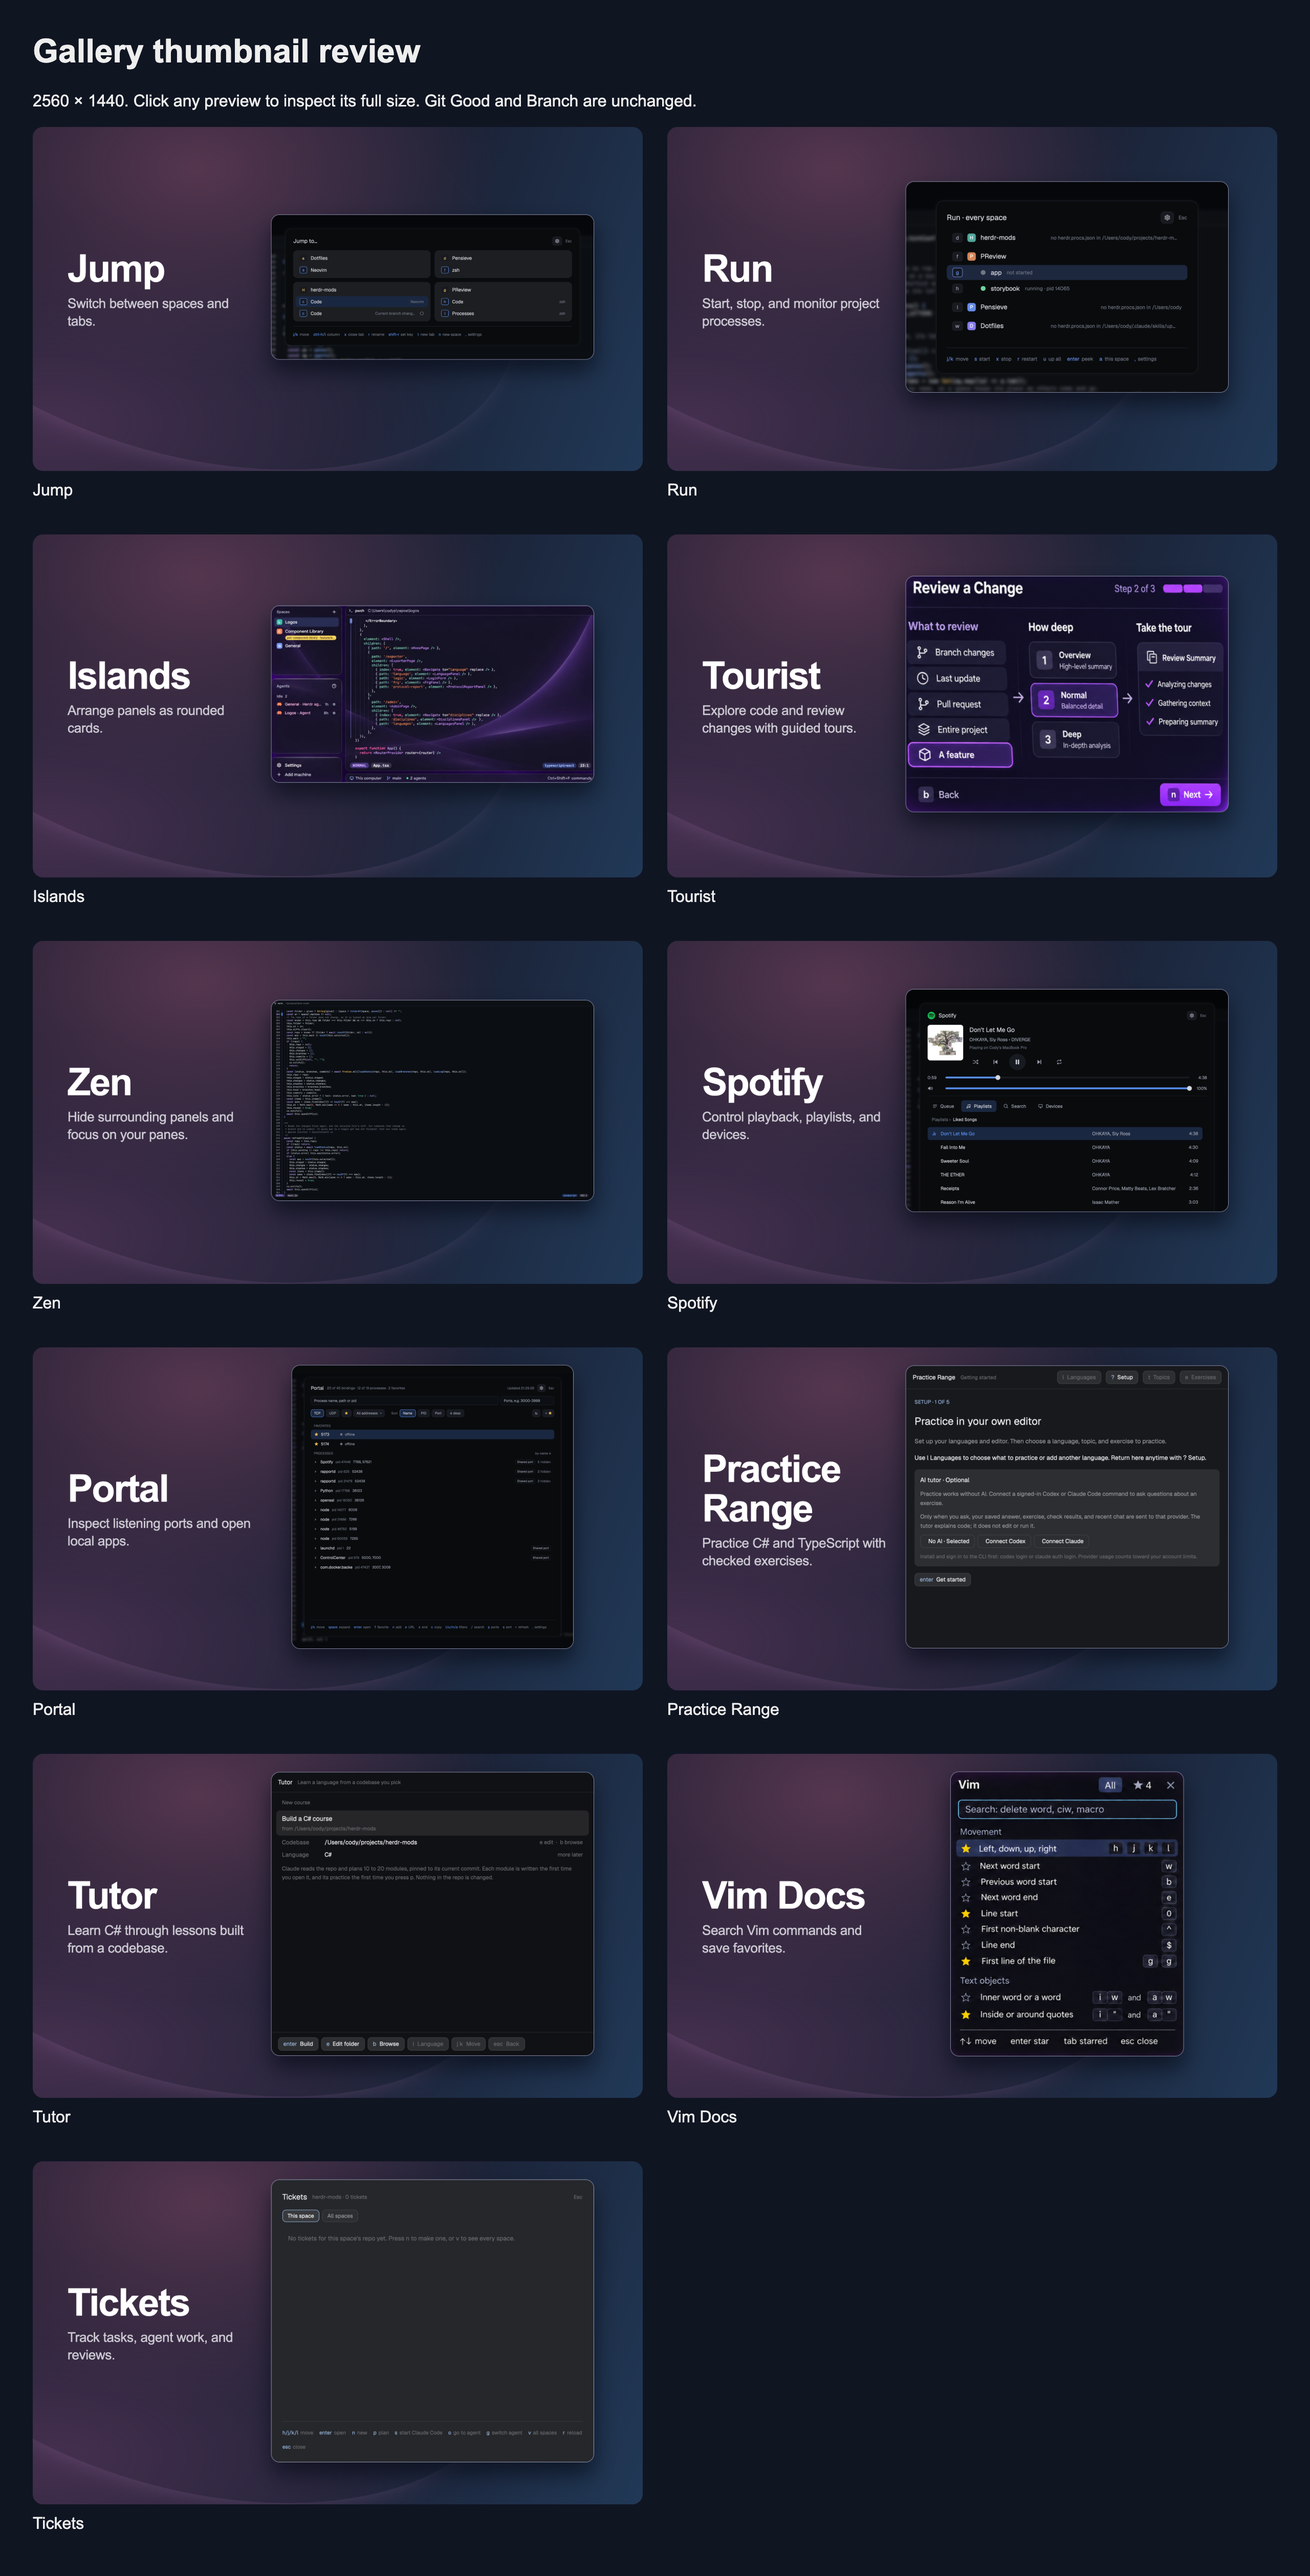
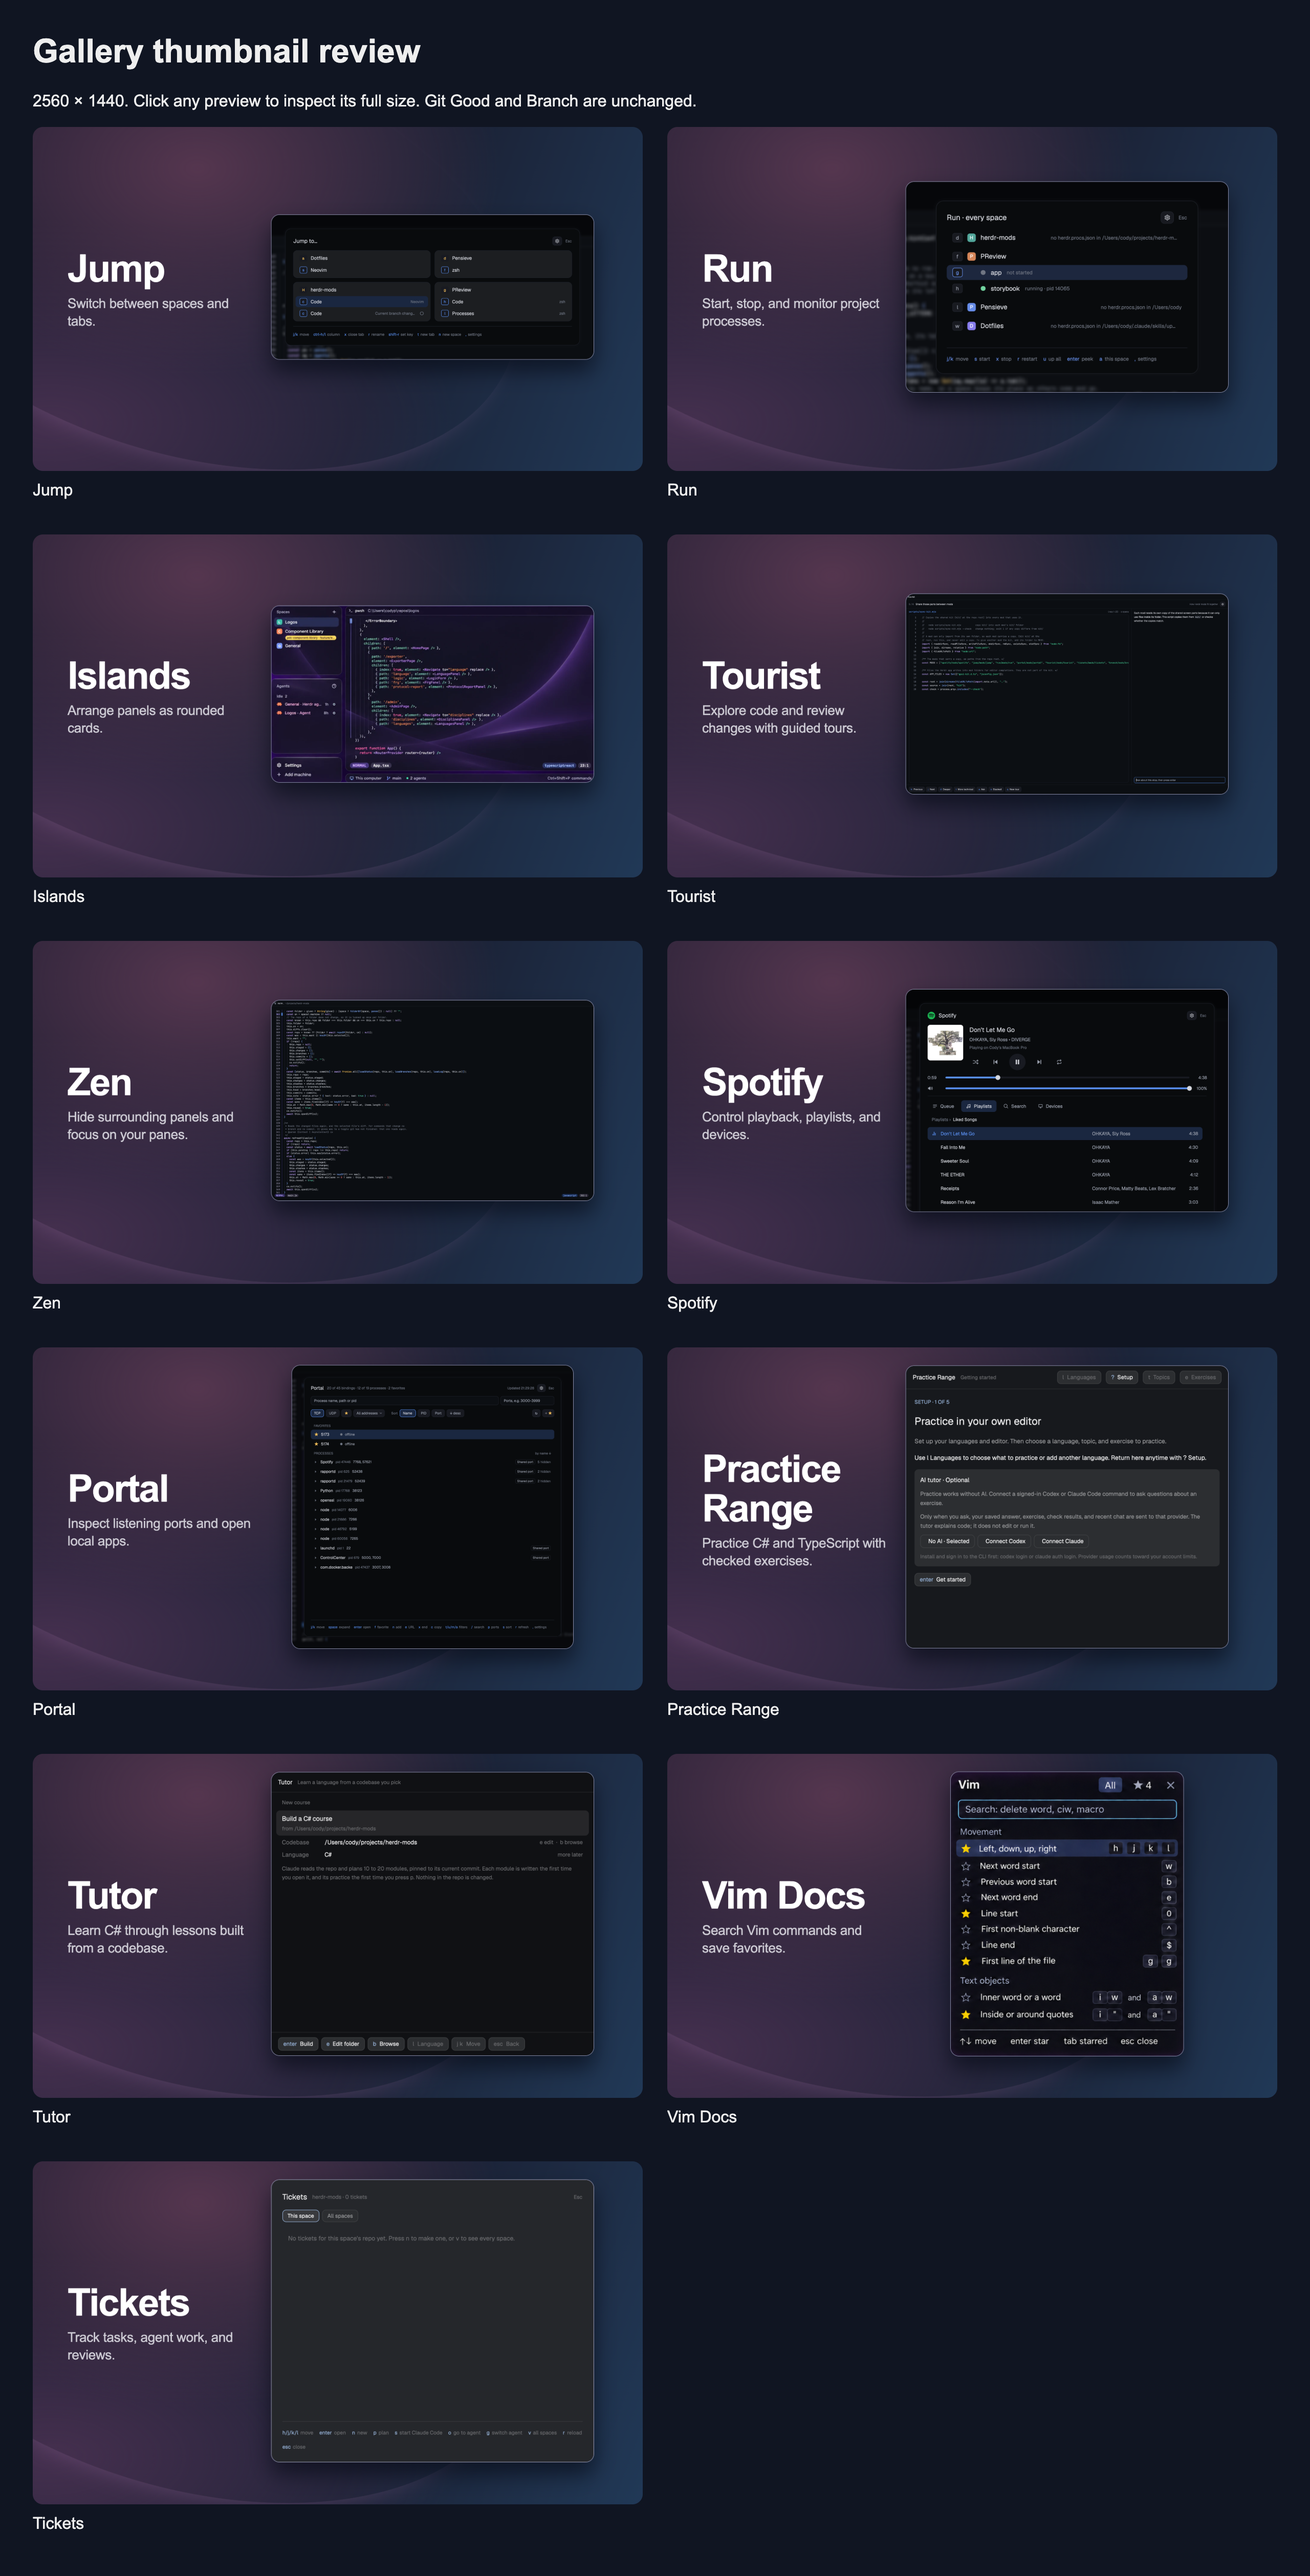
Use supplied Tourist guided-tour screenshot

Changed region(s): [[0.6875, 0.2184, 0.9375, 0.3432]]

diff --git a/gallery/INVENTORY.md b/gallery/INVENTORY.md
@@ -8,7 +8,7 @@ The supplied approved reference is preserved as `reference.jpg`. Branch and Git 
 | Jump | `jump/preview.png` | Supplied Jump screenshot, showing space and tab cards with surrounding editor blurred |
 | Run | `run/preview.png` | Supplied Run screenshot, with the surrounding editor lightly blurred |
 | Islands | `islands/preview.png` | UI crop from the old preview, showing cards and code |
-| Tourist | `tourist/preview.png` | UI crop from the old preview, showing review scope and depth |
+| Tourist | `tourist/preview.png` | Third supplied Tourist screenshot, showing an active tour with code and explanation |
 | Zen | `zen/preview.png`, `zen/thumbnail-v6.png` | Supplied Zen screenshot, showing the full focused editor without blur |
 | Spotify | `spotify/preview.png`, `spotify/thumbnail.png` | Supplied Spotify screenshot, showing playback and playlists with surrounding editor blurred |
 | Portal | `portal/preview.png`, `portal/thumbnail.png` | Supplied Portal screenshot, showing favorites, filters, and listening processes with surrounding editor blurred |
@@ -21,7 +21,7 @@ Every updated mod has a matching `preview.png` and `thumbnail.png` at 2560 × 14
 
 This branch is based on main. Tickets is present in the user's work branch, so only its gallery assets are added here. Its implementation stays on that work branch. Existing untracked thumbnail experiments in the original checkout are untouched.
 
-Three screenshots reuse the UI panels from the old images at commit `90949f0`. Jump, Run, Spotify, and Portal use the supplied screenshots with an 8 px background blur and the original dialog pixels preserved. Spotify is cropped to playback controls and the first playlist rows for legibility. Zen uses the supplied full editor view without blur. Crop coordinates and blur settings are in `screenshot-crops.json`. Perspective is straightened by resampling the existing pixels. No UI is generated or redrawn. Outer promotional artwork and glowing frames are cropped away. Practice Range, Tutor, and Tickets have no older image in Git history, so their native captures remain unchanged. UI key legends and control icons remain inside the screenshots. No promotional branding, badges, icons, key callouts, or slogans were added.
+Two screenshots reuse the UI panels from the old images at commit `90949f0`. Jump, Run, Spotify, and Portal use the supplied screenshots with an 8 px background blur and the original dialog pixels preserved. Spotify is cropped to playback controls and the first playlist rows for legibility. Zen and Tourist use the supplied full editor and tour views without blur. Crop coordinates and blur settings are in `screenshot-crops.json`. Perspective is straightened by resampling the existing pixels. No UI is generated or redrawn. Outer promotional artwork and glowing frames are cropped away. Practice Range, Tutor, and Tickets have no older image in Git history, so their native captures remain unchanged. UI key legends and control icons remain inside the screenshots. No promotional branding, badges, icons, key callouts, or slogans were added.
 
 The shared composition is in `template.html`, designed at 1280 × 720 and exported at 2× resolution for sharp text on Retina displays. Titles, descriptions, prior assets, and screen states are in `mods.json`. To reproduce with Playwright and Chrome installed:
 
